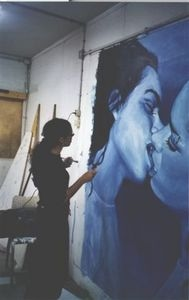
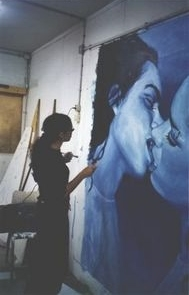
image fix and border

diff --git a/styles/global.css b/styles/global.css
@@ -146,7 +146,7 @@ border:0;
 img 
 {
     border-style:solid;
-    border-width:4px;
+    border-width:0;
     border-color:White;
     border-radius:5px;
 }
